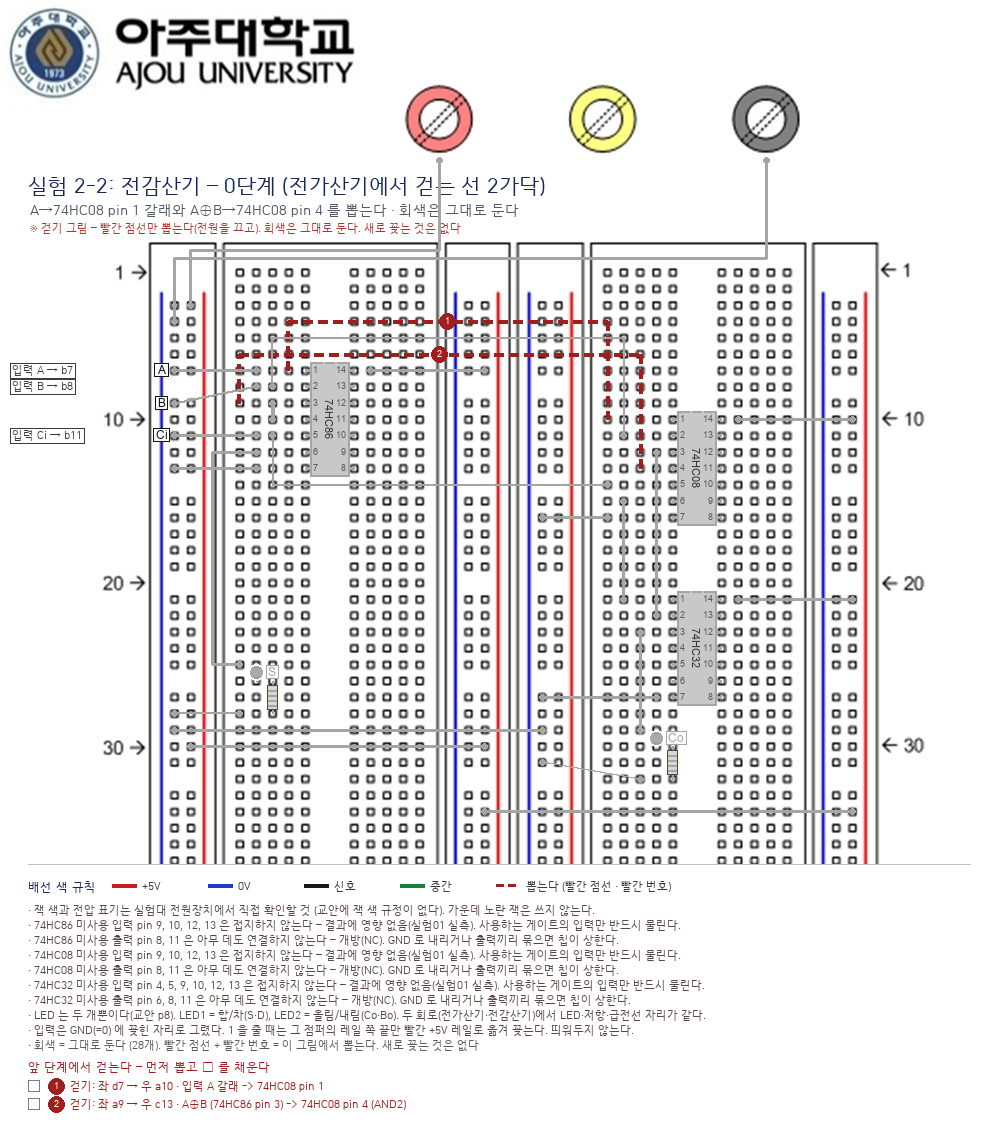
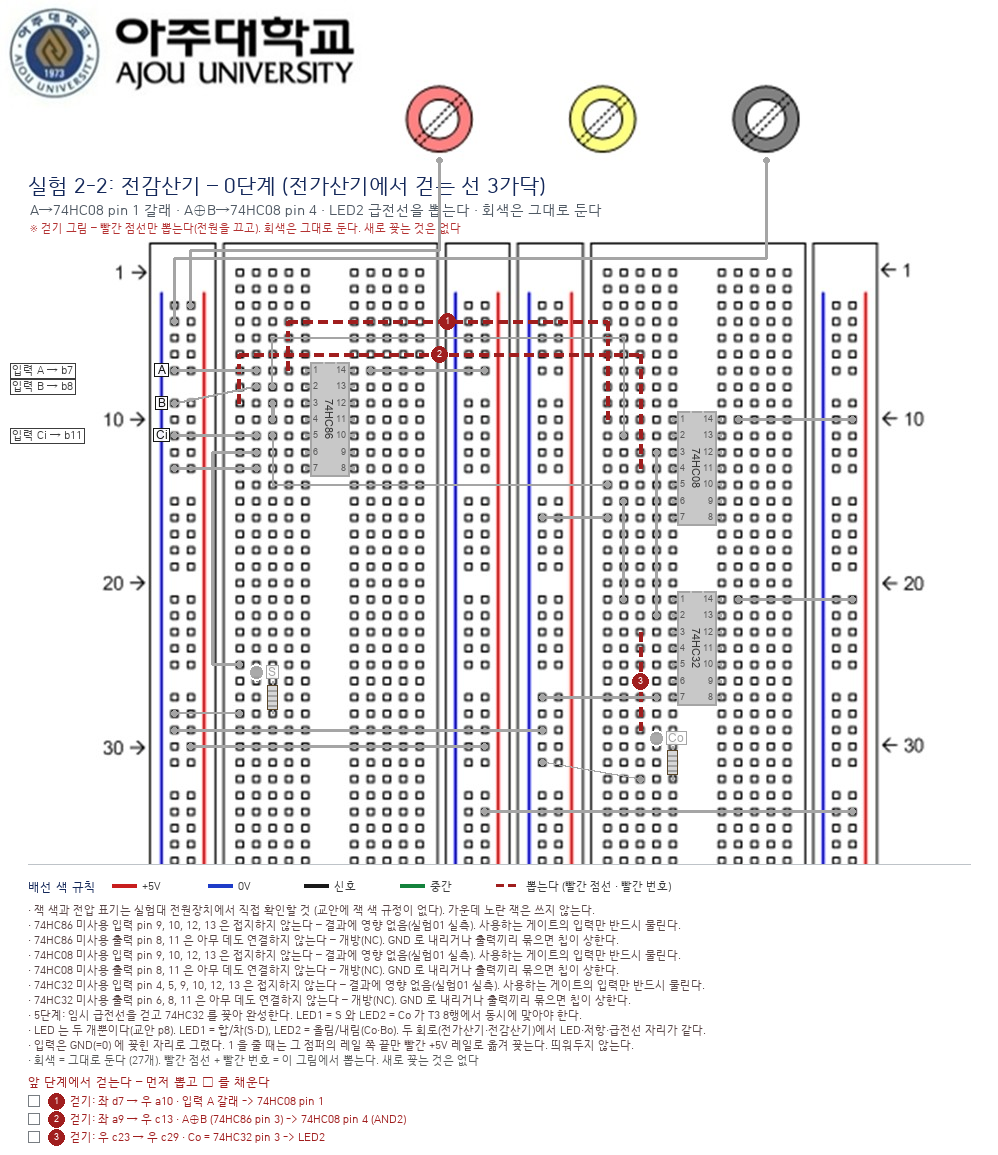
feat(lab): 실험03 결선을 관측 노드 단위 여덟 단계로 다시 짠다
C2 가 다섯 단계(A⊕B·S·A·B·(A⊕B)·Ci·Co), C4 가 걷기 + 두 단계(A'·B·Bo)다.
단계마다 새 신호선 셋이고, 중간 노드는 비어 있는 LED 의 급전선을 잠시 옮겨
본다. 완성본 두 장은 바이트까지 그대로다 — 단계는 그리기 순서의 앞부분
자르기다.

diff --git a/tests/test_breadboard_wiring.py b/tests/test_breadboard_wiring.py
@@ -281,16 +281,15 @@ class WiringE3(unittest.TestCase):
         made = {n for n, _f, _s in self.b3.BOARDS} | {n for n, _f in self.b3.FINALS}
         self.assertEqual(wanted, made)
 
-    def test_보드_사슬은_4장_완성본은_2장이다(self):
-        """반가산기·반감산기는 조교 공지 `_350547_1` 로 하지 않는다 — 사슬에 없다.
-        전가산기 → 전감산기 경계에 걷기 보드(0단계) 한 장이 있다(2026-09-18 실험실 기록)."""
-        self.assertEqual(len(self.b3.BOARDS), 4)
+    def test_보드_사슬은_8장_완성본은_2장이다(self):
+        """2026-09-20 단계 세분화: C2 가 다섯 단계, C4 가 걷기 + 두 단계다."""
+        self.assertEqual(len(self.b3.BOARDS), 8)
         self.assertEqual(len(self.b3.FINALS), 2)
         names = [n for n, _f, _s in self.b3.BOARDS] + [n for n, _f in self.b3.FINALS]
         self.assertEqual(len(names), len(set(names)), '파일명이 겹친다')
         self.assertNotIn(self.b3.BOARDS[-1][0], [n for n, _f in self.b3.FINALS])
         self.assertFalse(any(k in n for n in names for k in ('반가산기', '반감산기')), names)
-        self.assertEqual(self.b3.BOARDS[2][0], '실험03_2-2_결선도_전감산기_0단계_걷기.png')
+        self.assertEqual(self.b3.BOARDS[5][0], '실험03_2-2_결선도_전감산기_0단계_걷기.png')
 
     def _chain(self):
         """`build_all` 과 같은 순서로 사슬을 이어 그린 렌더러 목록."""
@@ -301,59 +300,63 @@ class WiringE3(unittest.TestCase):
             base = bb.snapshot()
         return out
 
-    def test_걷기_보드는_두_가닥만_유령이고_새_선이_없다(self):
-        g = self._chain()[2]
+    def test_단계마다_새_신호선이_셋_이하다(self):
+        """단계 세분화의 전부다 — 확인이 실패하면 용의자가 방금 꽂은 셋이다."""
+        for bb, (name, _fn, _stage) in zip(self._chain(), self.b3.BOARDS):
+            with self.subTest(board=name):
+                self.assertLessEqual(len(bb.new_signal), self.mod.STAGE_WIRE_BUDGET,
+                                     f'{name}: {[k[1:] for k in bb.new_signal]}')
+
+    def test_걷기_보드는_세_가닥이_유령이고_새_선이_없다(self):
+        """LED2 최종 급전선도 걷는다 — 1단계에 그것이 A'·B 를 보는 프로브가 된다."""
+        g = self._chain()[5]
         self.assertEqual([(r['n'], r['addr']) for r in g.removals()],
-                         [(1, '좌 d7 → 우 a10'), (2, '좌 a9 → 우 c13')])
+                         [(1, '좌 d7 → 우 a10'), (2, '좌 a9 → 우 c13'), (3, '우 c23 → 우 c29')])
         self.assertEqual(g.steps, [])
         self.assertTrue(g.partial)
         self.assertFalse(g.submit)
-        self.assertEqual([c['label'] for c in g.wiring()['chips']], ['74HC86', '74HC08', '74HC32'])
-
-    def test_걷기_보드_뒤의_전감산기_1단계는_걷을_것이_없다(self):
-        fs = self._chain()[3]
-        self.assertEqual(fs.removed(), [])
-        # 새 번호 일곱 개: 74HC04(1) + 네 가닥(4) + 전원 두 가닥(2) — 걷기 보드가 있어도 같다
-        self.assertEqual(len(fs.steps), 7, fs.steps)
+        # 걷기 보드가 뽑는 선은 "새 선" 이 아니다 — 렌더러의 계수 줄이 유령선 분기
+        # 위로 올라가면 조용히 새 선으로 세어진다. 그 회귀를 여기서 막는다.
+        self.assertEqual(g.new_signal, [])
+        self.assertEqual([c['label'] for c in g.wiring()['chips']],
+                         ['74HC86', '74HC08', '74HC32'])
 
     def test_주차_파일에_걷기_보드_build_래퍼가_없다(self):
         """`build_*` 래퍼는 `all_builders` 에 잡혀 가독성 검사 `steps > 0` 에 걸린다."""
-        _name, fn, _stage = self.b3.BOARDS[2]
+        _name, fn, _stage = self.b3.BOARDS[5]
         self.assertEqual(fn.__module__, self.mod.__name__)
 
-    def test_전가산기_1단계는_맨바닥에서_XOR_쪽만_꽂는다(self):
-        """반가산기(실험 1-1)를 안 하므로 전가산기가 첫 보드다 — 기준선이 없고
-        74HC08·74HC32 는 아직 없다."""
+    def test_전가산기_1단계는_맨바닥에서_XOR1_과_임시_급전선만_꽂는다(self):
         _name, fn, stage = self.b3.BOARDS[0]
         self.assertEqual((fn, stage), (self.b3.build_e3_fa, 1))
         bb = fn(os.path.join(self.tmp, 'fa1.png'), stage=stage)
         self.assertEqual([c['label'] for c in bb.wiring()['chips']], ['74HC86'])
         self.assertEqual(bb.removed(), [])
+        self.assertEqual(len(bb.new_signal), 3)
+        self.assertTrue(any('임시 급전' in s['desc'] for s in bb.steps), bb.steps)
 
-    def test_전가산기_2단계는_아무것도_걷지_않는다(self):
-        base = self.b3.build_e3_fa(os.path.join(self.tmp, 'fa1.png'), stage=1).snapshot()
-        bb = self.b3.build_e3_fa(os.path.join(self.tmp, 'fa2.png'), baseline=base)
-        self.assertEqual(bb.removed(), [])
+    def test_단계마다_임시_급전선을_한_가닥씩_걷는다(self):
+        """2·4·5단계와 전감산기 2단계는 앞 단계의 프로브를 걷는다. 3단계는 걷지 않는다."""
+        chain = self._chain()
+        self.assertEqual([len(bb.removals()) for bb in chain], [0, 1, 0, 1, 1, 3, 0, 1])
 
-    def test_전감산기는_전가산기에서_두_가닥만_걷는다(self):
-        """AND1 pin 1 의 A 갈래와 AND2 pin 4 의 A⊕B 선. Ci 점퍼·LED 급전선은 그대로다 —
+    def test_반감산기에는_단계가_없다(self):
+        """반감산기는 조교 공지 `_350547_1` 로 하지 않는다 — 완성본만 남는다."""
+        with self.assertRaises(ValueError):
+            self.b3.build_e3_hs(os.path.join(self.tmp, 'x.png'), stage=1)
+        with self.assertRaises(ValueError):
+            self.b3.build_e3_fa(os.path.join(self.tmp, 'x.png'), stage=6)
+
+    def test_전감산기_완성은_전가산기에서_두_가닥을_바꾼다(self):
+        """AND1 pin 1 의 A 갈래와 AND2 pin 4 의 A⊕B. Ci 점퍼·LED 사슬은 그대로다 —
         기준선은 끝점으로 비교하므로 이름이 Ci→Bi 로 바뀌어도 회색으로 남는다."""
         base = self.b3.build_e3_fa(os.path.join(self.tmp, 'fa.png')).snapshot()
-        bb = self.b3.build_e3_fs(os.path.join(self.tmp, 'fs1.png'), baseline=base)
+        bb = self.b3.build_e3_fs(os.path.join(self.tmp, 'fs.png'), baseline=base)
         removed = bb.removed()
         self.assertEqual(len(removed), 2, removed)
         self.assertTrue(any('74HC08 pin 1' in r for r in removed), removed)
         self.assertTrue(any('74HC08 pin 4' in r for r in removed), removed)
         self.assertFalse(any('뽑는다' in r for r in removed), removed)
-        # 새 번호 일곱 개: 74HC04(1) + 네 가닥(4) + 전원 두 가닥(2)
-        self.assertEqual(len(bb.steps), 7, bb.steps)
-
-    def test_반감산기_전감산기에는_1단계를_주지_않는다(self):
-        """두 회로의 1단계는 반감산기를 거치던 옛 사슬의 차분이었다."""
-        for fn in (self.b3.build_e3_hs, self.b3.build_e3_fs):
-            with self.subTest(fn=fn.__name__):
-                with self.assertRaises(ValueError):
-                    fn(os.path.join(self.tmp, 'x.png'), stage=1)
 
     def test_전감산기_74HC86_은_왼쪽에_11리드_오른쪽에_1리드다(self):
         """R7(2026-09-20)의 근거 숫자. 실험03 은 게이트 1·2 만 써서 배선이 칩 왼쪽

diff --git a/tests/test_breadboard_nets.py b/tests/test_breadboard_nets.py
@@ -312,7 +312,9 @@ class R5(unittest.TestCase):
         # 빠져 24 다. 완성본 build_e2_tpd·build_e3_ha·build_e3_hs 는 남는다.
         # 2026-09-15 엔진·주차 분리: 빌더가 주차 `배치.py` 로 옮겨 갔다(`tests/_boards.py`).
         # 일괄 렌더 `build_eN_all` 은 원래 세지 않았으므로 수는 그대로 24 다.
-        self.assertEqual(len(builders), 24)
+        # 2026-09-20 단계 세분화: 실험03 절차 래퍼가 셋(e3_fa_s1/_s2·e3_fs_s1)에서
+        # 일곱(e3_fa_s1~_s5·e3_fs_s1/_s2)으로 늘어 28 이다.
+        self.assertEqual(len(builders), 28)
         for name, fn in sorted(builders.items()):
             with self.subTest(회로=name):
                 _render(self.mod, fn)

diff --git a/tests/test_breadboard_diagram_cli.py b/tests/test_breadboard_diagram_cli.py
@@ -135,7 +135,7 @@ class BreadboardCli(unittest.TestCase):
         doc = SKILL.read_text(encoding="utf-8")
         supported = {n.removeprefix("build_") for n in _builder_names()}
         for gone in ("e1_or", "e1_nor", "e2_rn", "e2_rp", "e2_tpd_s1", "e2_tpd_s2",
-                     "e3_ha_s1", "e3_ha_s2", "e3_hs_s1", "e3_hs_s2", "e3_fs_s2"):
+                     "e3_ha_s1", "e3_ha_s2", "e3_hs_s1", "e3_hs_s2"):
             if gone not in supported:
                 with self.subTest(circuit=gone):
                     self.assertNotIn(f"`{gone}`", doc)

diff --git a/scripts/lab/hand_compare.py b/scripts/lab/hand_compare.py
@@ -192,8 +192,8 @@ CIRCUITS = ('e1_and', 'e1_or', 'e1_nand', 'e1_nor', 'e1_comb',
             'e1_or_s1', 'e1_nand_s1', 'e1_nand_s2', 'e1_nor_s1', 'e1_nor_s2',
             'e1_comb_s1', 'e1_comb_s2', 'e1_comb_s3',
             'e2_inv', 'e2_schmitt', 'e2_schmitt_s1', 'e2_tpd',
-            'e3_ha', 'e3_fa', 'e3_fa_s1', 'e3_fa_s2',
-            'e3_hs', 'e3_fs', 'e3_fs_s1')
+            'e3_ha', 'e3_fa', 'e3_fa_s1', 'e3_fa_s2', 'e3_fa_s3', 'e3_fa_s4', 'e3_fa_s5',
+            'e3_hs', 'e3_fs', 'e3_fs_s1', 'e3_fs_s2')
 
 
 class CompareError(ValueError):

diff --git a/tests/test_hand_compare.py b/tests/test_hand_compare.py
@@ -847,7 +847,8 @@ class NewWeeks(unittest.TestCase):
 
     def test_실험02_03_회로가_자기_대조에서_조용하다(self):
         cids = [c for c in hc.CIRCUITS if c.startswith(('e2_', 'e3_'))]
-        self.assertEqual(len(cids), 11)
+        # 2026-09-20 단계 세분화: 실험03 절차 래퍼가 셋에서 일곱으로 늘어 11 → 15 다.
+        self.assertEqual(len(cids), 15)
         for cid in cids:
             with self.subTest(cid=cid):
                 ref = hc.reference_diagram(cid)
